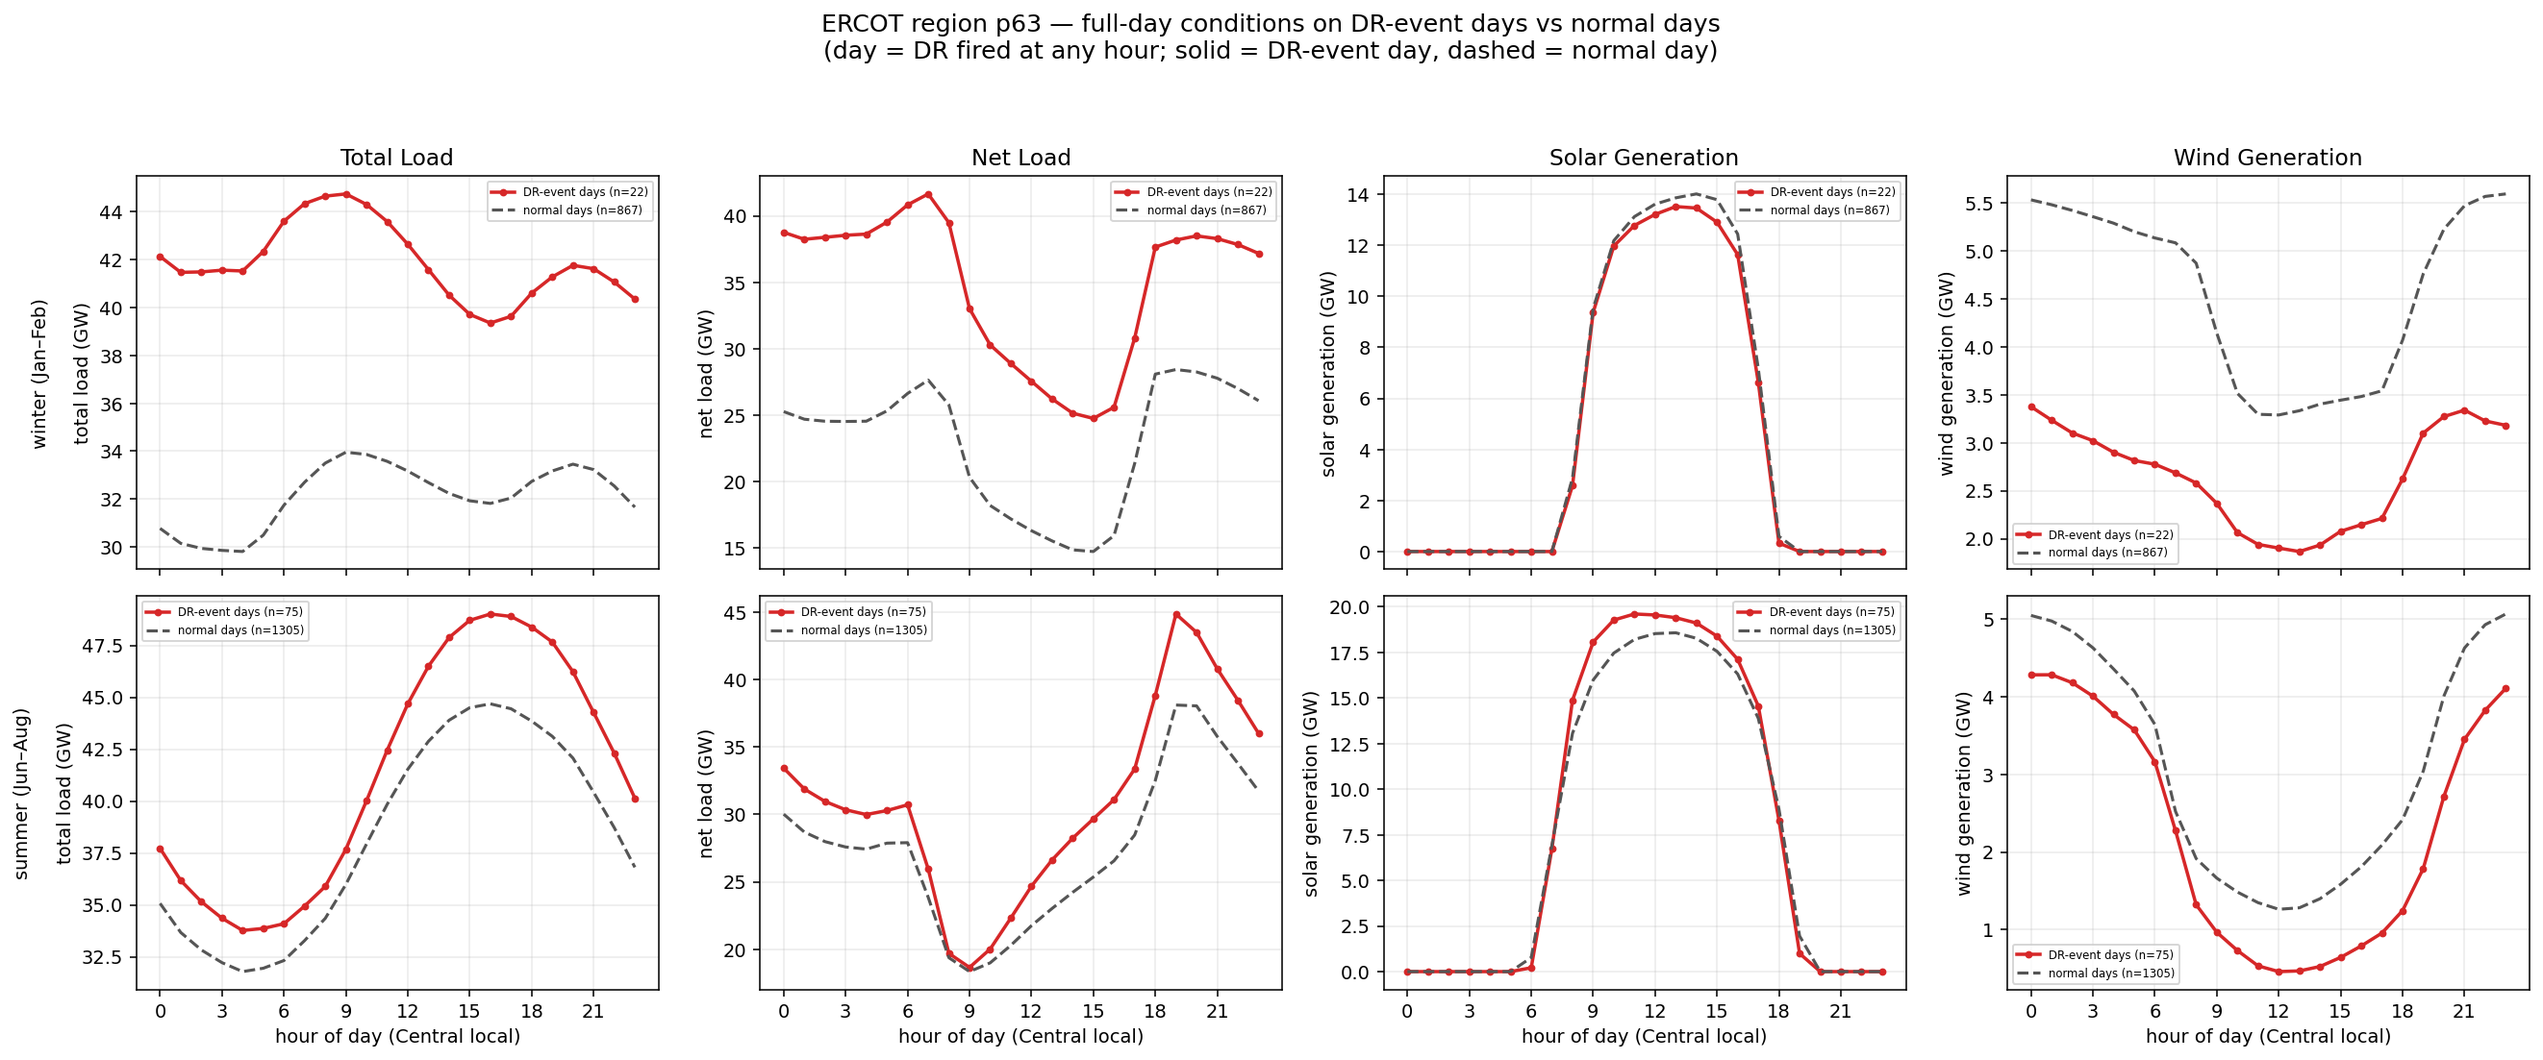
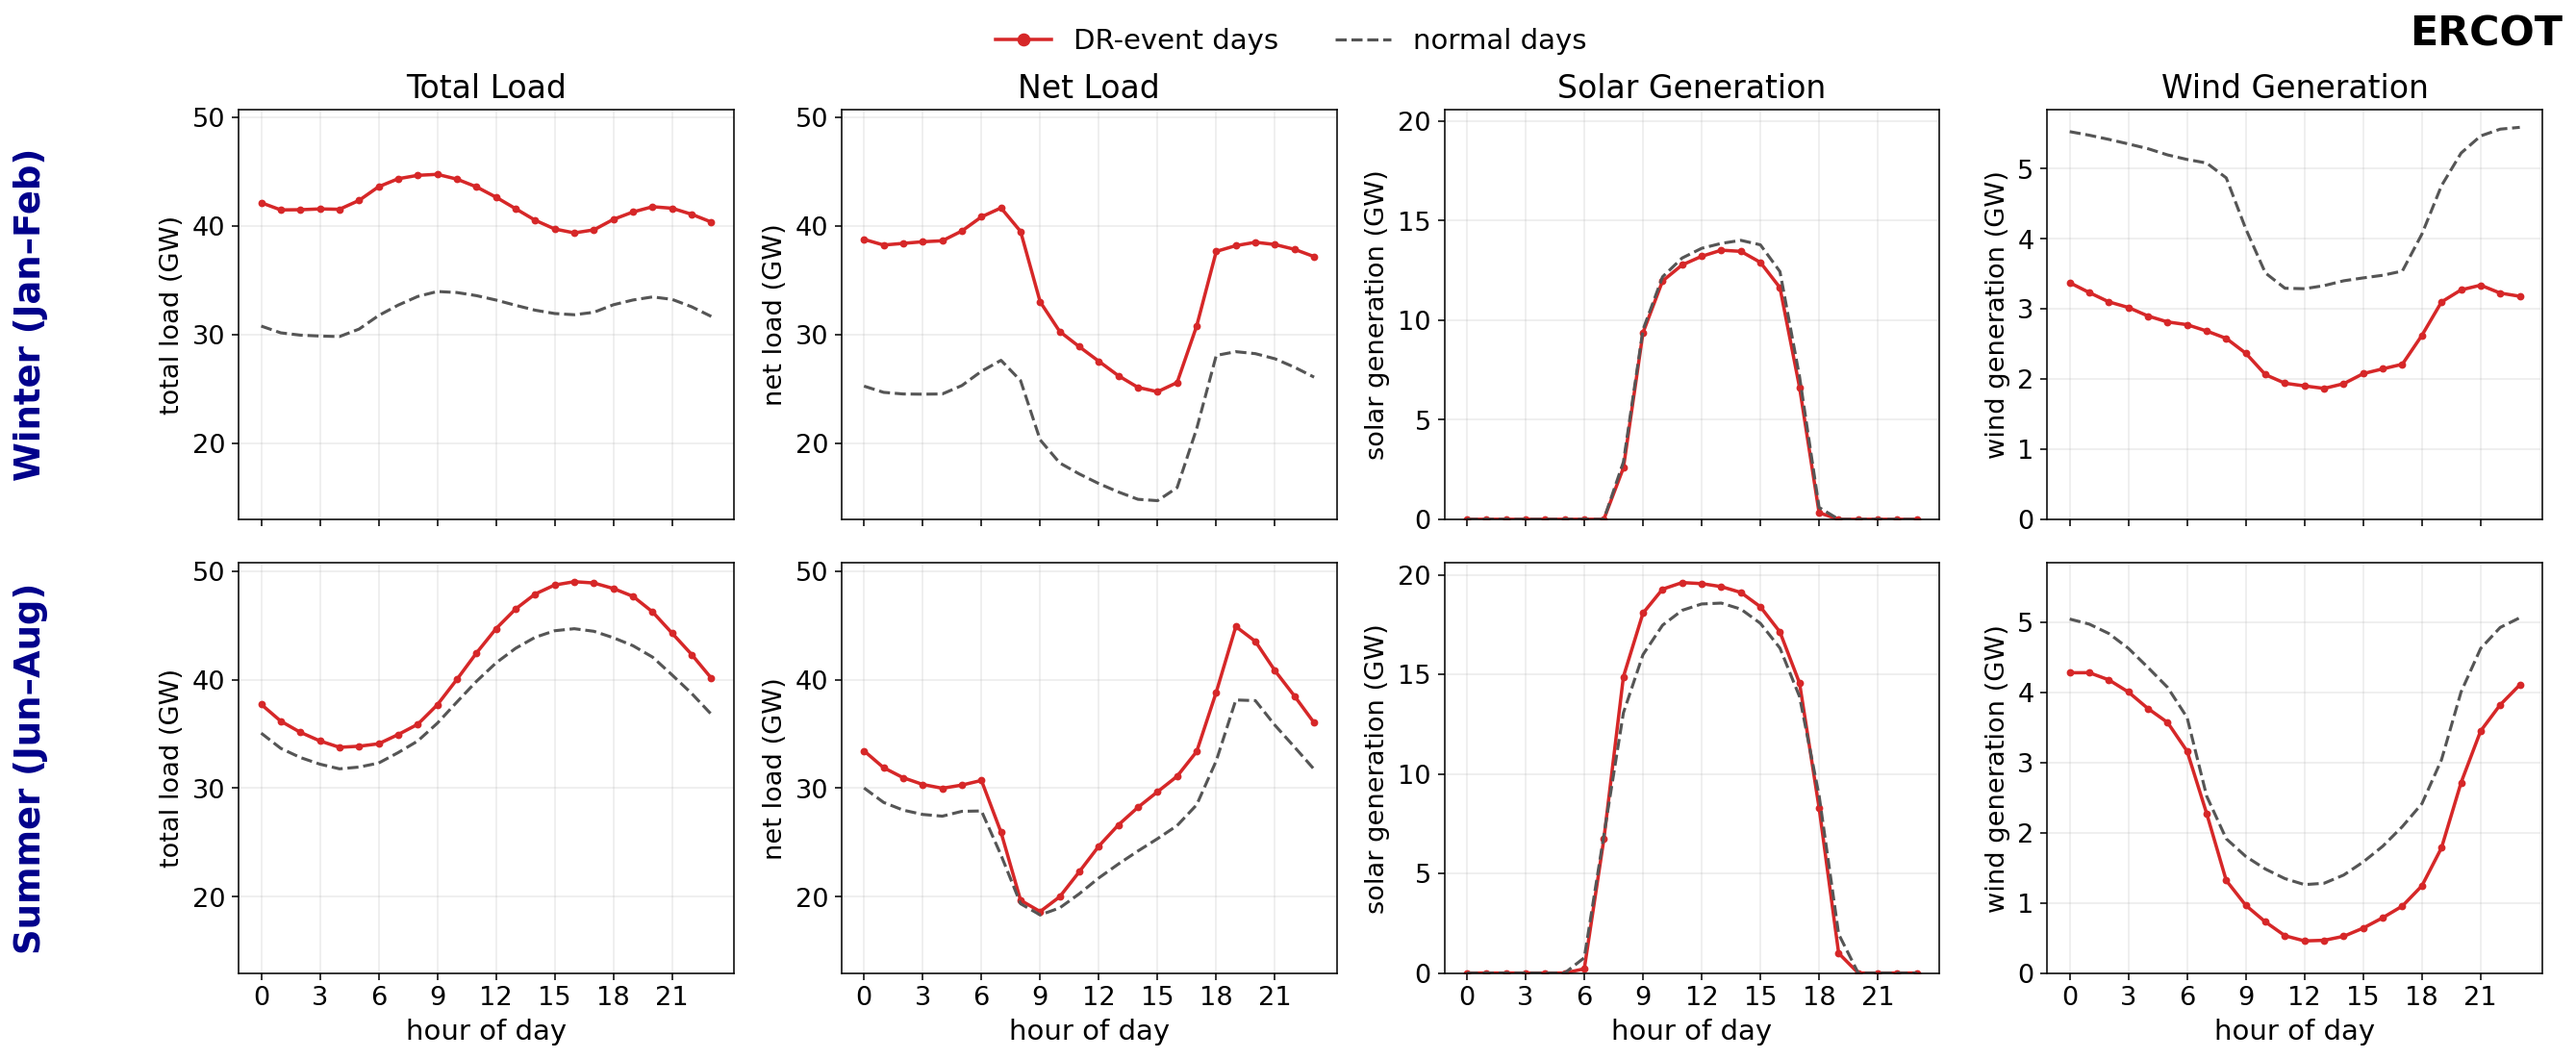
Restyle load/generation and DR-condition figures
- Stage 10 (load/gen panels): stack Total Load / Solar / Wind on the left with a
  large Net Load panel on the right; drop the DR-dispatch hatch and main title;
  system name in the corner; green winter box; "hour of day" axes; bigger fonts
- Stage 11 (DR conditions): share y-limits; single top legend row; system name in
  the corner; dark-blue capitalized season labels; bigger fonts; wind "0" ticks

diff --git a/neue_diagnostics/scripts/11_dr_vs_nodr_conditions.py b/neue_diagnostics/scripts/11_dr_vs_nodr_conditions.py
@@ -26,9 +26,13 @@ import matplotlib  # noqa: E402
 
 matplotlib.use("Agg")
 import matplotlib.pyplot as plt  # noqa: E402
+
+plt.rcParams.update({"font.size": 14})   # bigger fonts throughout
 import numpy as np  # noqa: E402
 import pandas as pd  # noqa: E402
 from matplotlib.patches import Patch  # noqa: E402
+from matplotlib.lines import Line2D  # noqa: E402
+from matplotlib.ticker import FuncFormatter  # noqa: E402
 
 from neue_diag import io_results  # noqa: E402
 from neue_diag.config import load_config  # noqa: E402
@@ -37,8 +41,9 @@ USED_C = "#d62728"   # DR used
 NODR_C = "#555555"   # DR not used
 BAR_C = "#9ecae1"    # % of days DR on (secondary-axis bars)
 BAR_EDGE = "#2b6ca3"
+SEASON_C = "#00008b"   # dark blue for the winter/summer row labels
 _TZ = {-2: "Pacific", -1: "Mountain", 0: "Central", 1: "Eastern"}
-SEASONS = (("winter (Jan–Feb)", (1, 2)), ("summer (Jun–Aug)", (6, 8)))
+SEASONS = (("Winter (Jan–Feb)", (1, 2)), ("Summer (Jun–Aug)", (6, 8)))
 QTYS = (("Total Load", "feat__load_high_mw", "total load (GW)"),
         ("Net Load", "feat__net_load_mw", "net load (GW)"),
         ("Solar Generation", "feat__cap_solar_mw", "solar generation (GW)"),
@@ -97,10 +102,10 @@ def make_fig(cfg, system, region, mode="perhour"):
     fi, si = d["freg"].index(region), d["sreg"].index(region)
     dr = d["dr"][:, si]
     month, hour, day = d["month"], d["hour"], d["day"]
-    tz = _TZ.get(int(cfg.system(system).get("local_utc_offset", 0)), "local")
 
     fig, axes = plt.subplots(len(SEASONS), len(QTYS), figsize=(19, 8),
                              sharex=True)
+    series = {}   # (season i, quantity j) -> (on_diurnal, off_diurnal)
     for i, (sname, months) in enumerate(SEASONS):
         in_season = (month >= months[0]) & (month <= months[1])
         on, off, lon, loff = _masks(mode, in_season, dr, day)
@@ -120,40 +125,62 @@ def make_fig(cfg, system, region, mode="perhour"):
                 ax2.set_ylim(0, 50)   # shared scale so winter/summer compare
                 ax.set_zorder(ax2.get_zorder() + 1)   # lines above bars
                 ax.patch.set_visible(False)
-                ax2.tick_params(axis="y", labelcolor=BAR_EDGE, labelsize=7)
+                ax2.tick_params(axis="y", labelcolor=BAR_EDGE, labelsize=14)
                 if j == len(QTYS) - 1:
-                    ax2.set_ylabel("% of season's days DR on at that hour",
-                                   color=BAR_EDGE)
-            l1, = ax.plot(range(24), _diurnal(qty, hour, on), "-o", color=USED_C,
-                          ms=3, lw=1.8, label=lon)
-            l2, = ax.plot(range(24), _diurnal(qty, hour, off), "--", color=NODR_C,
-                          lw=1.6, label=loff)
+                    ax2.set_ylabel("% of days\nDR on (that hour)",
+                                   color=BAR_EDGE, fontsize=15)
+            on_arr, off_arr = _diurnal(qty, hour, on), _diurnal(qty, hour, off)
+            series[(i, j)] = (on_arr, off_arr)
+            ax.plot(range(24), on_arr, "-o", color=USED_C, ms=3, lw=1.8)
+            ax.plot(range(24), off_arr, "--", color=NODR_C, lw=1.6)
             ax.grid(alpha=0.25)
             if i == 0:
-                ax.set_title(qname)
+                ax.set_title(qname, fontsize=17)
             # y-label names the quantity; the leftmost column also carries the
-            # season as a row header above it.
-            ax.set_ylabel(f"{sname}\n\n{ylab}" if j == 0 else ylab)
+            # season as a dark-blue rotated row header to its left.
+            ax.set_ylabel(ylab, fontsize=14)
+            if j == 0:
+                ax.text(-0.42, 0.5, sname, transform=ax.transAxes, rotation=90,
+                        va="center", ha="center", color=SEASON_C, fontsize=19,
+                        fontweight="bold")
             if i == len(SEASONS) - 1:
-                ax.set_xlabel(f"hour of day ({tz} local)")
+                ax.set_xlabel("hour of day", fontsize=15)
             ax.set_xticks(range(0, 24, 3))
-            handles = [l1, l2]
-            if pct is not None:
-                handles.append(Patch(facecolor=BAR_C, alpha=0.6,
-                                     label="% days DR on (right axis)"))
-            ax.legend(handles=handles, fontsize=6)
 
+    # Shared y-limits so winter/summer rows align (and Total Load / Net Load
+    # share one scale to be comparable). Generation panels start at 0 so the
+    # bottom baselines line up. Column order: 0=Total Load, 1=Net Load,
+    # 2=Solar, 3=Wind.
+    def _rng(js, floor=None, pad=0.05):
+        vals = np.concatenate([np.concatenate(series[(i, j)])
+                               for (i, j) in series if j in js])
+        vals = vals[np.isfinite(vals)]
+        lo, hi = float(vals.min()), float(vals.max())
+        span = (hi - lo) or 1.0
+        return (floor if floor is not None else lo - pad * span, hi + pad * span)
+
+    ylims = {0: _rng({0, 1}), 1: _rng({0, 1}),
+             2: _rng({2}, floor=0.0), 3: _rng({3}, floor=0.0)}
+    for (i, j) in series:
+        axes[i, j].set_ylim(ylims[j])
+        if j == 3:   # wind: show "0" not "0.00" (and drop trailing zeros)
+            axes[i, j].yaxis.set_major_formatter(
+                FuncFormatter(lambda x, _: f"{x:g}"))
+
+    suffix = "" if mode == "perhour" else "_dayclass"
+    on_lbl, off_lbl = (("DR on", "DR off") if mode == "perhour"
+                       else ("DR-event days", "normal days"))
+    lg = [Line2D([0], [0], color=USED_C, marker="o", lw=1.8, ms=6, label=on_lbl),
+          Line2D([0], [0], color=NODR_C, lw=1.6, ls="--", label=off_lbl)]
     if mode == "perhour":
-        sub, suffix = ("conditions when the always-on shed is used vs not\n"
-                       "(same season & hour; solid = DR on, dashed = DR off)", "")
-    else:
-        sub, suffix = ("full-day conditions on DR-event days vs normal days\n"
-                       "(day = DR fired at any hour; solid = DR-event day, "
-                       "dashed = normal day)", "_dayclass")
-    fig.suptitle(
-        f"{cfg.system(system).get('label', system.upper())} region {region} — "
-        + sub, fontsize=13)
-    fig.tight_layout(rect=[0, 0, 1, 0.94])
+        lg.append(Patch(facecolor=BAR_C, alpha=0.7,
+                        label="% of days DR on (right axis)"))
+    # System name in the top-right corner; single legend row across the top.
+    fig.legend(handles=lg, loc="upper center", ncol=len(lg), fontsize=15,
+               frameon=False, bbox_to_anchor=(0.5, 0.995))
+    fig.text(0.997, 0.985, cfg.system(system).get("label", system.upper()),
+             ha="right", va="top", fontsize=22, fontweight="bold")
+    fig.tight_layout(rect=[0, 0, 1, 0.955])
     out = cfg.figure_path(f"{system}_dr_conditions{suffix}_{region}.png")
     fig.savefig(out, dpi=140, bbox_inches="tight")
     plt.close(fig)

diff --git a/neue_diagnostics/scripts/10_load_gen_panels.py b/neue_diagnostics/scripts/10_load_gen_panels.py
@@ -25,6 +25,8 @@ import matplotlib  # noqa: E402
 
 matplotlib.use("Agg")
 import matplotlib.pyplot as plt  # noqa: E402
+
+plt.rcParams.update({"font.size": 16})   # bigger fonts throughout
 import numpy as np  # noqa: E402
 import pandas as pd  # noqa: E402
 from matplotlib.patches import Patch, Rectangle  # noqa: E402
@@ -34,7 +36,7 @@ from neue_diag.config import load_config  # noqa: E402
 
 MONTHS = ["Jan", "Feb", "Mar", "Apr", "May", "Jun",
           "Jul", "Aug", "Sep", "Oct", "Nov", "Dec"]
-WIN_C = "#1f77ff"
+WIN_C = "#00c000"   # winter box: green (more visible than blue on the wind panel)
 SUM_C = "#d62728"
 DR_WINTER_MONTHS = (1, 2)
 DR_SUMMER_MONTHS = (6, 8)
@@ -76,8 +78,6 @@ def _grid(df, col):
     return grid
 
 
-DR_HATCH_C = "#20e000"   # bright green hatch marking DR-dispatch cells
-DR_HATCH_FRAC = 0.10     # hatch cells with mean dispatch >= this * peak cell
 
 
 def shed_data(cfg, system, frac=0.5):
@@ -109,24 +109,16 @@ def shed_data(cfg, system, frac=0.5):
     return grid, windows
 
 
-def _draw_heatmap(fig, ax, grid, cmap, title, cbar_label, windows, tz,
-                  dr_grid=None):
+def _draw_heatmap(fig, ax, grid, cmap, title, cbar_label, windows,
+                  vmin=None, vmax=None):
     im = ax.imshow(grid, aspect="auto", origin="upper", cmap=cmap,
-                   extent=[-0.5, 23.5, 11.5, -0.5])
+                   extent=[-0.5, 23.5, 11.5, -0.5], vmin=vmin, vmax=vmax)
     cb = fig.colorbar(im, ax=ax, fraction=0.046, pad=0.04)
-    cb.set_label(cbar_label)
+    cb.set_label(cbar_label, fontsize=15)
     ax.set_yticks(range(12)); ax.set_yticklabels(MONTHS)
     ax.set_xticks(range(0, 24, 3))
-    ax.set_xlabel(f"hour of day ({tz} local)")
-    ax.set_title(title)
-    # bright-green hatch on cells where mean dispatch >= 10% of the peak cell,
-    # i.e. where the shed is meaningfully active (not every faintly-nonzero cell)
-    if dr_grid is not None and dr_grid.max() > 0:
-        thr = DR_HATCH_FRAC * dr_grid.max()
-        for m, h in zip(*np.where(dr_grid >= thr)):
-            ax.add_patch(Rectangle((h - 0.5, m - 0.5), 1, 1, facecolor="none",
-                                   edgecolor=DR_HATCH_C, hatch="///", lw=0.0,
-                                   zorder=3))
+    ax.set_xlabel("hour of day")
+    ax.set_title(title, fontsize=19)
     for hrs, months, c in ((windows["winter"], DR_WINTER_MONTHS, WIN_C),
                            (windows["summer"], DR_SUMMER_MONTHS, SUM_C)):
         ax.add_patch(Rectangle(
@@ -136,41 +128,38 @@ def _draw_heatmap(fig, ax, grid, cmap, title, cbar_label, windows, tz,
 
 
 def make_fig(cfg, system):
-    label = cfg.system(system).get("label", system.upper())
-    tz = tz_label(cfg, system)
     df = load_series(cfg, system)
-    dr_grid, windows = shed_data(cfg, system)
+    _, windows = shed_data(cfg, system)
 
-    fig = plt.figure(figsize=(19, 11))
-    gs = fig.add_gridspec(2, 3, hspace=0.35, wspace=0.3)
+    # Layout: Total Load / Solar / Wind stacked as equal-size rows in a left
+    # column, with a bigger Net Load panel on the right spanning all three rows.
+    fig = plt.figure(figsize=(15, 12))
+    gs = fig.add_gridspec(3, 2, width_ratios=[1, 1.35], hspace=0.4, wspace=0.28)
 
     _draw_heatmap(fig, fig.add_subplot(gs[0, 0]), _grid(df, "load_gw"), "Greys",
-                  "Total Load", "mean load (GW)", windows, tz, dr_grid=dr_grid)
-    _draw_heatmap(fig, fig.add_subplot(gs[0, 1]), _grid(df, "solar_gw"),
+                  "Total Load", "mean load (GW)", windows)
+    _draw_heatmap(fig, fig.add_subplot(gs[1, 0]), _grid(df, "solar_gw"),
                   "YlOrBr", "Solar Generation", "mean available solar (GW)",
-                  windows, tz, dr_grid=dr_grid)
-    _draw_heatmap(fig, fig.add_subplot(gs[0, 2]), _grid(df, "wind_gw"), "Blues",
-                  "Wind Generation", "mean available wind (GW)", windows, tz,
-                  dr_grid=dr_grid)
-
-    # --- bottom row: net load = load - solar - wind, centered ---
-    _draw_heatmap(fig, fig.add_subplot(gs[1, 1]), _grid(df, "net_load_gw"),
+                  windows)
+    _draw_heatmap(fig, fig.add_subplot(gs[2, 0]), _grid(df, "wind_gw"),
+                  "Blues", "Wind Generation", "mean available wind (GW)",
+                  windows)
+    _draw_heatmap(fig, fig.add_subplot(gs[0:3, 1]), _grid(df, "net_load_gw"),
                   "Purples", "Net Load  (load − solar − wind)",
-                  "mean net load (GW)", windows, tz, dr_grid=dr_grid)
+                  "mean net load (GW)", windows)
 
     handles = [
         Patch(facecolor="none", edgecolor=WIN_C, lw=2.2,
               label=f"winter DR window (Jan–Feb, {_win_lbl(windows['winter'])})"),
         Patch(facecolor="none", edgecolor=SUM_C, lw=2.2,
               label=f"summer DR window (Jun–Aug, {_win_lbl(windows['summer'])})"),
-        Patch(facecolor="none", edgecolor=DR_HATCH_C, hatch="///",
-              label=f"DR dispatched (≥{DR_HATCH_FRAC:.0%} of peak)"),
     ]
-    fig.legend(handles=handles, loc="lower center", ncol=3, fontsize=11,
+    fig.legend(handles=handles, loc="lower center", ncol=2, fontsize=15,
                frameon=True, bbox_to_anchor=(0.5, 0.005))
-    fig.suptitle(
-        f"{label} — load & generation by month and hour "
-        f"(mean over 15 weather years, {tz} local)", fontsize=14)
+    # System name in the upper-right corner (same size as subpanel titles).
+    label = cfg.system(system).get("label", system.upper())
+    fig.text(0.995, 0.995, label, ha="right", va="top", fontsize=19,
+             fontweight="bold")
     out = cfg.figure_path(f"{system}_load_gen_panels.png")
     fig.savefig(out, dpi=140, bbox_inches="tight")
     plt.close(fig)
